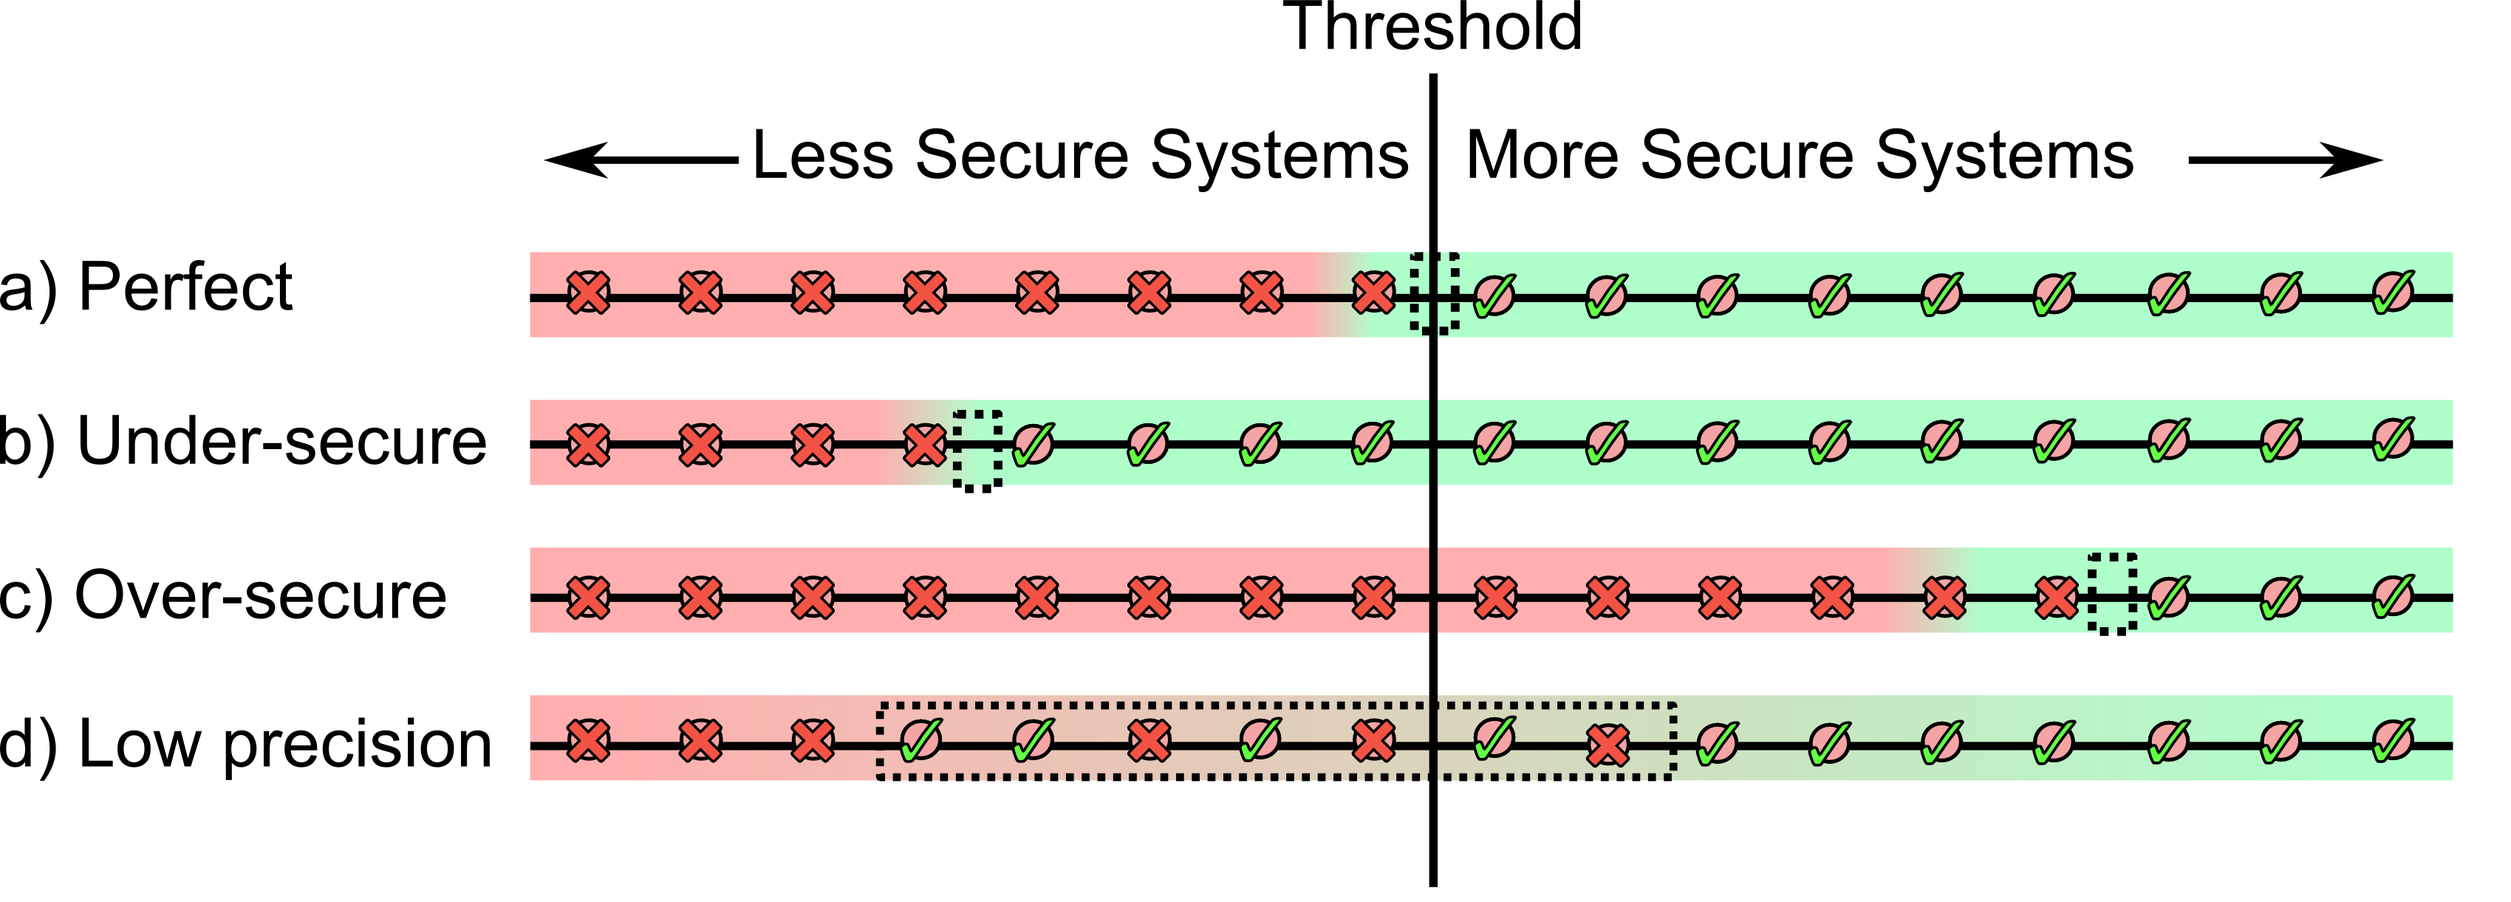
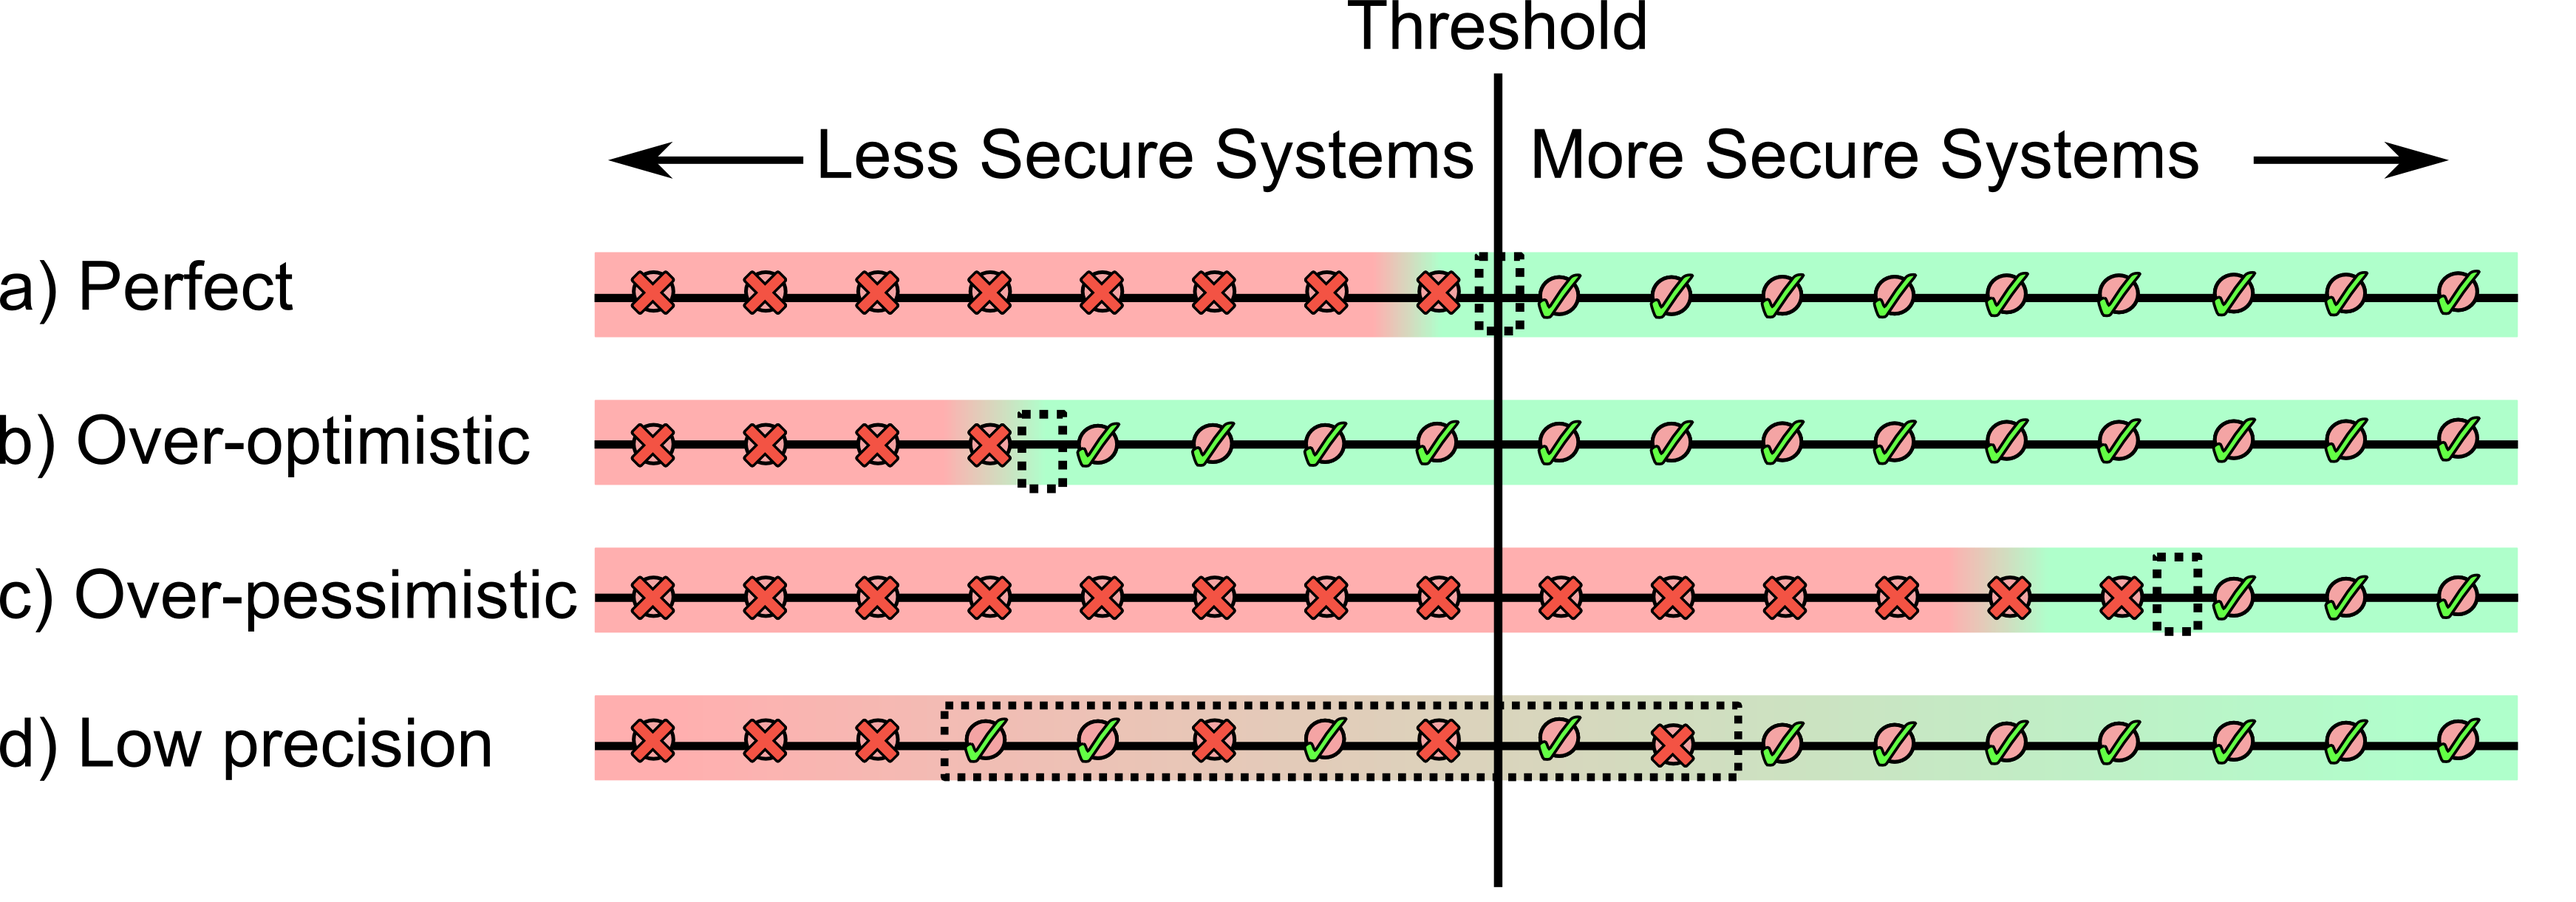
most of the post viva corrections.
still need to add a diagram for chapter 7 and copy edit all of these changes.

Changed region(s): [[0.0, 0.0934, 0.9668, 0.9959], [0.499, 0.0, 0.6549, 0.0622], [0.0312, 0.2801, 0.1247, 0.3423]]

diff --git a/all.tex b/all.tex
@@ -273,6 +273,16 @@ This work has four main areas of contribution in the area of power system securi
 \item Compare the security of power systems with differing penetrations of wind power.
 \end{itemize}
 
+% changes 4-10-2013 { %
+
+The software that was created to achieve the aims has a number of other potential uses. In addition to being able to compare different SAS it is itself a security assessment scheme. In it's current form it would have to be used more like a planning tool but with enough computing power it could become a powerful tool for the control room. 
+
+Another facet of the computer program is to aid in planning decisions. If there is a proposed change to the network it can show how that changed will affect the security of supply. This was done in this thesis to compare a system with and without wind generation but could just as easily be used to look at changes such as the addition of a new transmission line or an analysis of how storage should improve security of supply. In Section \ref{XXX - 7.5.2} further applications of the computer program are discussed. 
+
+One final feature of the program is to locate components of the network that are likely to cause security problems. In the large number of simulations that are run certain components will invariably cause problems more than others, this data could be very useful for network planners. 
+
+% } 4-10-2013 %
+
 \section{Structure of This Thesis}
 
 Following this introductory chapter, the thesis first describes current power systems in Chapter 2. This is followed by security issues that can arise with power systems (Chapter 3). Next, the future of power system is introduced focusing on two areas: generation, and demand (Chapter 4). At this point the reader should understand the relevant factors in power systems and the challenges posed to a system operator in the future.
@@ -1179,7 +1189,13 @@ An accurate scheme should take into account both likelihood and consequence of e
   R = \sum\limits_{i}^{} L (e_i) \times C(e_i)
 \end{equation}
 
-Where $R$ is Risk, $e$ is an event, $L$ is likelihood, and $C$ is consequence. A further definition of security \cite{Balu1992} gives further insight into the problem:
+% changes { %
+
+Where $R$ is Risk, $e$ is an event, $L$ is likelihood, and $C$ is consequence. This equation is used in a number of fields in different ways. In event planning consequence and likelihood are rated on a five point scale. In the financial industry likelihood can be seen as a probability and consequence financial (e.g lost income in dollars). Power systems can also use the equation in this way or consequence could be treated as MW of lost load.
+
+% } %
+
+A further definition of security \cite{Balu1992} gives further insight into the problem:
 
 \begin{myquote}[\cite{Balu1992}]Security may be defined as the probability of the system's operating point remaining in a viable state, given the probabilities of changes in the system (contingencies) and its environment (weather, customer demands, etc.).\end{myquote}
 
@@ -1217,8 +1233,11 @@ Given this definition it not easy to quantify the security not only due to the n
 
 \image{perfectSAS}{Example of a Perfect SAS}{perfectsas.png}
 
-This can be visualised as follows: Assume that the security level of a power system in a given state can be represented by a number between 0 and 100, where the higher number is more secure. Further, let us assume that the security threshold is 50, i.e.\ we want a SAS that reports a pass for all systems with a security higher than 50. This is shown in Fig \ref{perfectSAS}.
+% changes { %
 
+This can be visualised as follows: Assume that the security level of a power system in a given state can be represented by a probability that the system will, due to the unexpected changes during delivery, be in an unacceptable state such as a blackout. Further, let us assume that the security threshold is to have less than one blackout every 25 years. If there were more than this there would be severe financial penalties from the regulator, less and the operator could be paying more than is necessary to secure the system. An ideal SAS would report a pass for all system with a probability of a blackout being less than one in 25 years. This is shown in Fig \ref{perfectSAS}.
+
+% } %
 
 Fig \ref{SAScomparison} shows a number of different theoretical SAS marked against the same set of system operating conditions. We can see that \ref{SAScomparison}-a is perfectly accurate and precise. It only ever reports a pass to those over 50. This is impossible to achieve in practise due to time constraints.
 
@@ -1310,7 +1329,7 @@ This chapter sets out exactly what is required in a security assessment scheme. 
 
 
 % ================================================================== %
-\chapter{Comparing Security Assessment Schemes}\label{sec_compsas}
+\chapter{Criteria for Security Assessment Schemes}\label{sec_compsas}
 % ================================================================== %
 
 This chapter covers how security assessment schemes are assessed and compared then proceeds to detail the creation of a new method for comparing security assessment schemes. Finally, results are presented showing the novel method in action.
@@ -1343,7 +1362,9 @@ We can also see whether the operating conditions that were in disagreement were 
 
 By looking at the specific operating conditions that were in disagreement it may be possible to determine whether the SAS is lacking in some respects. It may, for instance, misrepresent only systems where the wind variability is high.
 
-We can also gather information by looking at the difference between each of the points in disagreement and the threshold. This gives an indication of how badly the SAS is when errors do occur. If a very insecure system, say with a security level of 10 is reported as a failure by a SAS then this is a larger problem than one with a security level of 49. A system with a security level of 10 is very likely to have some problem during its operation. This is by definition. If we allow such a system to run in that state then we are open to the financial cost of whatever stability or limits violation will occur. We can sum up the difference between each operating condition in disagreement and the threshold to come up with a value for the severity of error in the SAS. It should be noted that this number is not meant to represent anything in reality but is simply an indication of how well the SAS is for those operating conditions tested on that specific system. It can however be compared to another SAS run over the same operating conditions on the same system, to see which is best.
+We can also gather information by looking at the difference between each of the points in disagreement and the threshold. This gives an indication of how badly the SAS is when errors do occur. If a very insecure system, where a blackout has a one in a thousand change of occurring, is reported as a success by a SAS then this is a larger problem than one with a change of one in ten thousand. In other words it would be a very poor SAS if it reported that a few very insecure scenarios were actually acceptable. 
+
+If we allow such a system to run in that state then we are open to the financial cost of whatever stability or limits violation will occur. We can sum up the difference between each operating condition in disagreement and the threshold to come up with a value for the severity of error in the SAS. It should be noted that this number is not meant to represent anything in reality but is simply an indication of how well the SAS is for those operating conditions tested on that specific system. It can however be compared to another SAS run over the same operating conditions on the same system, to see which is best.
 
 \section{Monte Carlo Sampling}\label{lbl_sec_mcs}
 
@@ -1470,7 +1491,7 @@ Because of the large number of samples that are used the accuracy of the input d
 
 Wind speed data is often available in some form but is rarely as required. Missing entries are common but the least of the problem. Historic wind data is rarely available at the specific sites where wind farms are built. The main tool for assessing the wind resource at a site is "measure, correlate, predict" (MCP) analysis \cite{Economist2010}. This involves matching a short-term sample of wind data from the site to longer term data nearby. But this method is fraught with inaccuracy as the article states. Sensitivity to the shape of the landscape as well as nearby forests and the change in wind speed with altitude (the height of the wind hub) mean that there may be little correlation. Techniques do exist to mitigate some of these issues including using NWP (numerical weather prediction methods) or ANN (artificial neural networks) to effectively fill in the gaps in the data. Weather stations take the wind at a relatively low altitude, the calculations for 'wind shear' aim to account for the difference but these can be far from accurate and even a change of four kph results in a 15\% change in turbine output. This resulted from an altitude change of 50 meters but modern turbines can have a hub height of approaching 100 meters. The new estimates for wind resource by National Renewable Energy Laboratory \cite{NationalRenewableEnergyLaboratory2010} are three times what previous studies have estimated based upon these new larger, taller wind turbines.
 
-All this means that although wind data may be available, converting it into a form that can be used for taking millions of samples is not simple. There is work at the University of Bath and Edinburgh to develop a computer program that generates a sample-able set of data given the historic power of the area. This would be a perfect compliment for the work here as even 20 years of data, which is available from many sites in the UK, is not enough if we realise that we have to sample by day or year and hour of day. This leaves only 20 samples. This limitation could be partly mitigated by quantisation at larger intervals. By taking the months or even quarters of a year and splitting the day into three hours rather than single hour blocks we have many more samples available to select from.
+All this means that although wind data may be available, converting it into a form that can be used for taking millions of samples is not simple. There is work at the University of Edinburgh under the EPSRC SuperGen project (see \url{http://www.see.ed.ac.uk/research/IES/supergen}) to develop a computer program that generates a sample-able set of data given the historic power of the area. This would be a perfect compliment for the work here as even 20 years of data, which is available from many sites in the UK, is not enough if we realise that we have to sample by day or year and hour of day. This leaves only 20 samples. This limitation could be partly mitigated by quantisation at larger intervals. By taking the months or even quarters of a year and splitting the day into three hours rather than single hour blocks we have many more samples available to select from.
 
 \subsubsection{2. Computing Power}
 
@@ -1593,7 +1614,7 @@ This chapter covers how security assessment schemes are themselves assessed. It 
 \chapter{Computer Program}
 % ================================================================== %
 
-The aim of this chapter is to detail the development of a computer program made to test and compare SAS. It is then tested using rough analytical calculations.
+The aim of this chapter is to detail the development of a computer program made to test and compare SAS. It is then tested using approximate analytical calculations.
 
 \section{Program Data Sources}
 
@@ -1607,15 +1628,23 @@ Here the sources of data used in the final program, as well as external tools, a
 
 \subsection{Network - The IEEE Reliability Test System 96\label{lbl_RTS}}
 
-The IEEE Reliability Test System 96 (IEEE-RTS) \cite{Grigg1999} is a sample power system with a thorough set of data for operation, emissions, and reliability. It was for this reason that it was chosen as the test system for this work. For the bulk of the simulation the three area version was used, which is composed of 99 generating units, 73 busbars, 120 lines, 51 loads and two voltage levels.
+The IEEE Reliability Test System 96 (IEEE-RTS) \cite{Grigg1999} is a sample power system with a thorough set of data for operation, emissions, and reliability. It was for this reason that it was chosen as the test system for this work. For the bulk of the simulation the three area version was used, which is composed of 99 generating units, 73 busbars, 120 lines, 51 loads and two voltage levels, see Figure \ref{rts96} for details.
+
+\image{rts96}{Network Diagram for IEEE-RTS-96}{rts96.png}
 
 It was not meant to be representative of any particular power system but aimed to represent all the different technologies and requirements that could be encountered. Because of this it has been updated to include new technologies as the sector advances. The first version of this system was developed in 1979 \cite{IEEERTSTaskForceofAPMSubcommittee1979} it was then updated in 1986 \cite{Allan1986} and once again in 1996 \cite{Grigg1999}.
 
 In addition to new data the system has increased in size to incorporate three almost identical areas. As they are almost identical only the details of the components in the first area are shown in the following tables, a full listing is given in Appendix \ref{paper_rts}.
 
+b) Over-optimistic
+
+
+
+
 There have been many changes to power systems in the last 14 years and it would be good if the IEEE-RTS could be updated to incorporate these changes. The largest of the changes is the increase in penetration of renewable generation. As it stands the IEEE-RTS includes no renewable generators. Although the literature is showing examples of individuals who have added wind turbines there is no consensus or standard forming on where and how much renewable power should be added.
 
 As this paper is used extensively in this work it is included for reference in Appendix \ref{paper_rts}.
+
 
 
 \begin{table}[htbp]
@@ -1766,7 +1795,7 @@ The sampling program is based around four main data types, each associated with 
 \item \underline{SimulationBatch} files hold a list of scenarios. Each scenario contains the changes that have occurred such as a line outage or a change in demand. Batch files can optionally contain simplified simulation results. Batch files end in \underline{.bch}.
 \end{itemize}
 
-Ultimately, PSAT was dropped as the power system simulator and a simpler and faster tool was used. The software that was developed is still available (at \url{http:\\github.com\kerspoon\laos}) but it non-functioning.
+Ultimately, PSAT was dropped as the power system simulator and a simpler, faster tool was used. The software that used PSAT was never fully finished, but a number of parts are complete and available (at \url{http:\\github.com\kerspoon\laos}). This could be used as a starting point for further work using PSAT for security analysis.
 
 \subsubsection{CPF}
 
@@ -2873,7 +2902,7 @@ The total number of failed components in all simulations is 279,879 of these 264
 
 From the graph in Figure \ref{probacceptable} it is easy to see that the number of failed contingencies is highly non-linear and that there are a few outliers with a very high probability of failure. These are outliers in the sense of being outside the main grouping of results but not such that should be removed. These are interesting cases where a system operator should know that the system is in a precarious state and should be re-balanced to a new and more stable operating point.
 
-\image{probacceptable}{Percentage of Contingencies that Failed in Each Base Case}{probacceptable.png}
+\image{probacceptable}{Percentage of Contingencies that are Unacceptable with no Unscheduleable Generation}{probacceptable.png}
 
 Table \ref{table_results_worst} shows 20 of these cases. Even in that selection the number of unacceptable cases goes up two orders of magnitude. The least secure base case on this run actually had more chance of being unacceptable than not. Clearly not a system that an operator would consider running.
 
@@ -3020,7 +3049,9 @@ It would be very useful to see if N-1 or N-2 is a good predictor of the results 
 
 Another way of looking at the data is to plot the percentage of failed contingencies for each base case. This is done in Figure \ref{mc-n1-n2}, in this figure the base cases are sorted by the percentage of Monte Carlo sampled contingencies that failed. If N-1 was a good predictor of the Monte Carlo results it would in some way match the curve of the Monte Carlo results. This doesn't happen enough for N-1 to become a useful predictor. There is some change in the N-1 data point in the right of the figure, although it seems just to be a higher variance.
 
-These results bring in to question the value of performing a full N-2 simulation. It can highlight problematic areas of a system but it will not take into account the probabilities enough potentially leading to securing the wrong parts of the system. Risk is likelihood times consequence and N-2 doesn't consider the likelihood accurately enough. A probabilistic model such as the one used here can give more accurate results in less simulation time. In can even be used to find problematic areas of the system. The current results tell you that for a given system what the likelihood is that it will become problematic. This can be inverted by counting the number of times a component is in an unacceptable system verses an acceptable one. This will give a measure of which components are problematic.
+These results bring in to question the value of performing a full N-2 simulation. It can highlight problematic areas of a system but it will not take into account the probabilities enough potentially leading to securing the wrong parts of the system. Risk is likelihood times consequence and N-2 doesn't consider the likelihood accurately enough. A probabilistic model such as the one used here can give more accurate results in less simulation time. 
+
+It can even be used to find problematic areas of the system. The current results tell you for a given system what the likelihood is that it will become problematic. This can be inverted by counting the number of times a component is in an unacceptable system verses an acceptable one. This will give a measure of which components are problematic. To use the software in such a way requires simply running a large MCS and simulating each contingency. Then for each unacceptable contingency mark each component that failed. The total number of marks that a component has across all contingencies tell a system planner how often that component is problematic. 
 
 \image{scatter-n1-n2}{Scatter Plot of Percentage of Failed Contingencies using N-1 and N-2}{scatter-n1-n2.png}
 \image{scatter-mc-n2}{Scatter Plot of Percentage of Failed Contingencies using N-1 and Monte Carlo}{scatter-mc-n2.png}
